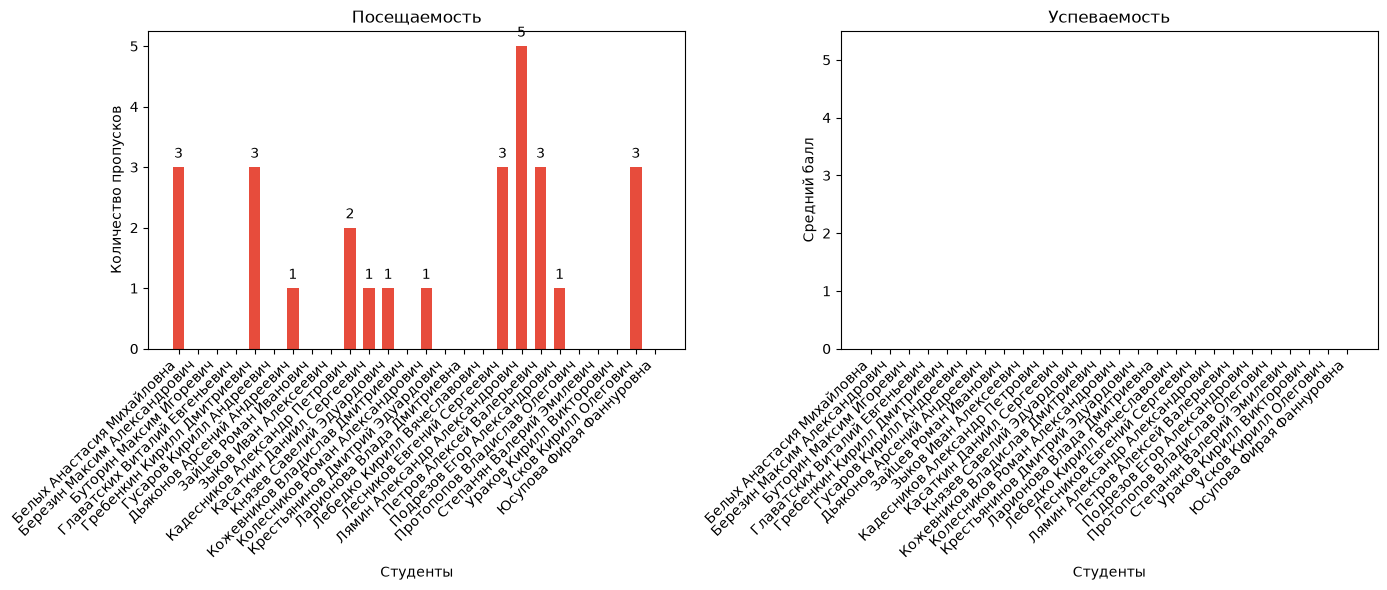
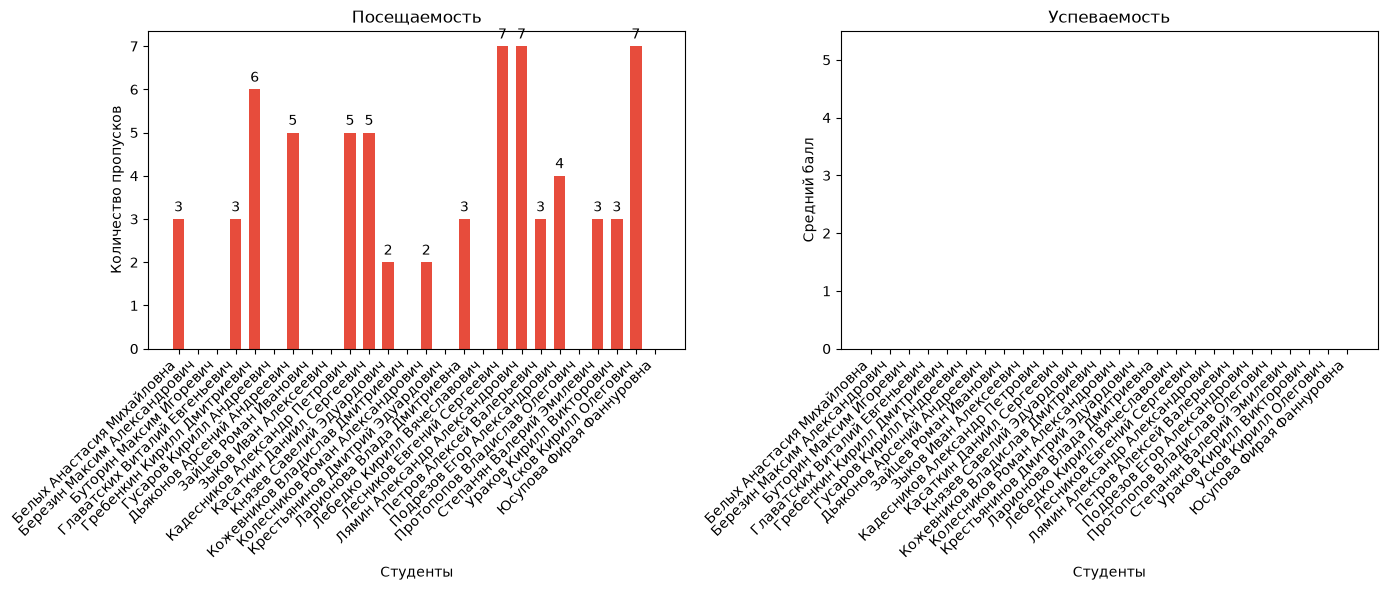
v1.5.1
Под iphone 12 mini оптимизировано

diff --git a/templates/base.html b/templates/base.html
@@ -52,7 +52,7 @@
                     </li>
 
                     {% if has_permission('view_journals') %}
-                    <li class="nav-item dropdown-lg-only">
+                    <li class="nav-item dropdown dropdown-lg-only">
                         <a class="nav-link dropdown-toggle {% if request.endpoint in ['main.group_subjects', 'main.teacher_hours_stats', 'main.journal'] %}active{% endif %}"
                            href="#"
                            role="button"
@@ -126,7 +126,7 @@
                     </li>
                     {% endif %}
 
-                    <li class="nav-item dropdown-lg-only">
+                    <li class="nav-item dropdown dropdown-lg-only">
                         <a class="nav-link dropdown-toggle {% if request.endpoint in ['main.groups', 'main.subjects'] %}active{% endif %}"
                            href="#"
                            role="button"
@@ -275,7 +275,6 @@
 
     <div class="container-fluid container-xl mt-3 mt-lg-4">
 
-        {# ============ ХЛЕБНЫЕ КРОШКИ ============ #}
         {% block breadcrumbs %}{% endblock %}
 
         {% with messages = get_flashed_messages(with_categories=true) %}
@@ -317,18 +316,21 @@
 
     <script>
     document.addEventListener('DOMContentLoaded', function() {
+        // Запрет эмодзи
         document.querySelectorAll('.no-emoji').forEach(function(input) {
             input.addEventListener('input', function() {
                 this.value = this.value.replace(/[\u{1F600}-\u{1F64F}\u{1F300}-\u{1F5FF}\u{1F680}-\u{1F6FF}\u{1F1E0}-\u{1F1FF}\u{2600}-\u{27BF}\u{1F900}-\u{1F9FF}]/gu, '');
             });
         });
 
+        // Только цифры в телефоне
         document.querySelectorAll('.phone-input').forEach(function(input) {
             input.addEventListener('input', function() {
                 this.value = this.value.replace(/[^\d]/g, '').slice(0, 11);
             });
         });
 
+        // Закрытие бургера при клике на обычную ссылку
         document.querySelectorAll('#navbarNav .nav-link:not(.dropdown-toggle):not([data-bs-toggle])').forEach(function(link) {
             link.addEventListener('click', function() {
                 var navbarCollapse = document.getElementById('navbarNav');
@@ -339,6 +341,7 @@
             });
         });
 
+        // Закрытие бургера при клике на подпункт мобильного меню
         document.querySelectorAll('.mobile-submenu-item').forEach(function(link) {
             link.addEventListener('click', function() {
                 var navbarCollapse = document.getElementById('navbarNav');
@@ -349,6 +352,7 @@
             });
         });
 
+        // Поворот стрелки аккордеона
         document.querySelectorAll('[data-bs-toggle="collapse"]').forEach(function(toggle) {
             var target = document.querySelector(toggle.getAttribute('href'));
             if (target) {
@@ -363,6 +367,7 @@
             }
         });
 
+        // Автораскрытие активного мобильного подменю
         var activeSubmenuItem = document.querySelector('.mobile-submenu-item.active');
         if (activeSubmenuItem) {
             var parentCollapse = activeSubmenuItem.closest('.collapse');
@@ -397,7 +402,7 @@
             gap: 6px;
         }
         .breadcrumbs li + li::before {
-            content: "\F285"; /* bi-chevron-right */
+            content: "\F285";
             font-family: "bootstrap-icons";
             font-size: 0.7rem;
             color: #adb5bd;
@@ -416,19 +421,8 @@
             font-weight: 600;
         }
 
-        @media (max-width: 575.98px) {
-            .breadcrumbs {
-                font-size: 0.82rem;
-                gap: 4px;
-                margin-bottom: 12px;
-            }
-            .breadcrumbs li + li::before {
-                font-size: 0.65rem;
-            }
-        }
-
         /* ============================================================
-           ОСТАЛЬНОЕ (без изменений)
+           ПРОФИЛЬ В НАВИГАЦИИ
            ============================================================ */
         .user-avatar-circle {
             width: 36px;
@@ -462,6 +456,9 @@
             background-color: rgba(255, 255, 255, 0.2);
         }
 
+        /* ============================================================
+           АКТИВНЫЙ ПУНКТ МЕНЮ
+           ============================================================ */
         .navbar-nav .nav-link.active {
             background-color: rgba(255, 255, 255, 0.15);
             border-radius: 6px;
@@ -473,6 +470,9 @@
             color: #fff;
         }
 
+        /* ============================================================
+           МОБИЛЬНОЕ МЕНЮ
+           ============================================================ */
         .mobile-only {
             display: none;
         }
@@ -483,12 +483,6 @@
             }
             .dropdown-lg-only {
                 display: none !important;
-            }
-        }
-
-        @media (max-width: 991.98px) {
-            .dropdown-lg-only {
-                display: none;
             }
         }
 
@@ -627,6 +621,9 @@
             }
         }
 
+        /* ============================================================
+           ДЕСКТОПНЫЕ УЛУЧШЕНИЯ
+           ============================================================ */
         @media (min-width: 992px) {
             .navbar .dropdown-menu {
                 border-radius: 8px;
@@ -661,6 +658,9 @@
             }
         }
 
+        /* ============================================================
+           ОБЩИЕ УЛУЧШЕНИЯ
+           ============================================================ */
         .navbar.sticky-top {
             transition: box-shadow 0.2s;
         }
@@ -684,6 +684,129 @@
             max-width: 1320px;
         }
 
+        /* ============================================================
+           МОБИЛЬНАЯ ОПТИМИЗАЦИЯ (iPhone 12 mini = 375px)
+           ============================================================ */
+        @media (max-width: 575.98px) {
+            /* Уменьшаем отступы контейнера */
+            .container-xl {
+                padding-left: 8px;
+                padding-right: 8px;
+            }
+
+            /* Уменьшаем заголовки */
+            h2 {
+                font-size: 1.35rem;
+                margin-bottom: 0.9rem !important;
+            }
+            h5 {
+                font-size: 1.05rem;
+            }
+            h6 {
+                font-size: 0.95rem;
+            }
+
+            /* Уменьшаем карточки */
+            .card-body {
+                padding: 0.75rem;
+            }
+            .card-header {
+                padding: 0.6rem 0.75rem;
+            }
+
+            /* Уменьшаем display-классы */
+            .fs-3 {
+                font-size: 1.35rem !important;
+            }
+            .fs-4 {
+                font-size: 1.15rem !important;
+            }
+
+            /* Иконки в карточках дашборда */
+            .card-body > i[style*="font-size:2.2rem"],
+            .card-body > i[style*="font-size:2rem"] {
+                font-size: 1.6rem !important;
+            }
+
+            /* Кнопки внутри карточек — на всю ширину */
+            .card-body .btn-light.btn-sm {
+                width: 100%;
+                padding: 0.35rem 0.5rem;
+                font-size: 0.85rem;
+            }
+
+            /* Alert-ы компактнее */
+            .alert {
+                padding: 0.65rem 0.85rem;
+                font-size: 0.9rem;
+            }
+
+            /* Крошки компактнее */
+            .breadcrumbs {
+                font-size: 0.82rem;
+                gap: 4px;
+                margin-bottom: 12px;
+            }
+            .breadcrumbs li + li::before {
+                font-size: 0.65rem;
+            }
+
+            /* Кнопки в шапках карточек — на всю ширину */
+            .card-header .btn {
+                padding: 0.3rem 0.65rem;
+                font-size: 0.85rem;
+            }
+
+            /* Таблицы: скролл по горизонтали */
+            .table-responsive {
+                -webkit-overflow-scrolling: touch;
+            }
+            .table-responsive table {
+                min-width: 100%;
+            }
+
+            /* Улучшаем touch-target для иконок-кнопок в таблицах */
+            .table .btn-sm {
+                min-width: 36px;
+                min-height: 36px;
+                padding: 0.3rem 0.5rem;
+            }
+
+            /* Модалки почти на всю ширину */
+            .modal-dialog {
+                margin: 0.5rem;
+            }
+
+            /* Убираем rounded-иконки в дашборде размером 56px */
+            .rounded-circle[style*="width:56px"] {
+                width: 44px !important;
+                height: 44px !important;
+                font-size: 1.15rem !important;
+            }
+
+            /* Прогресс-бары */
+            .progress {
+                min-width: 60px;
+            }
+        }
+
+        @media (max-width: 400px) {
+            h2 {
+                font-size: 1.2rem;
+            }
+
+            .card-body {
+                padding: 0.65rem;
+            }
+
+            .mobile-submenu-item {
+                font-size: 0.88rem;
+            }
+        }
+
+        /* ============================================================
+           ПЕЧАТЬ
+           ============================================================ */
         @media print {
             .navbar,
             .btn,
